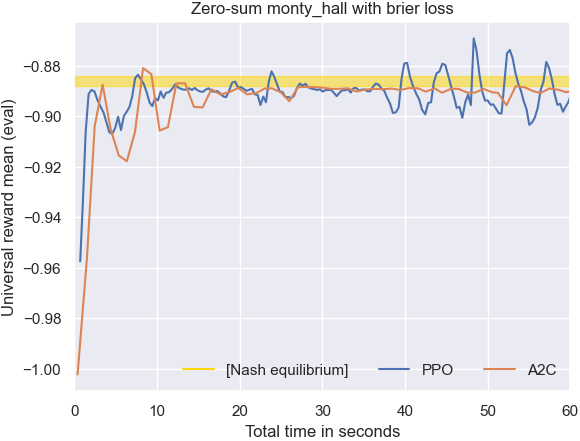
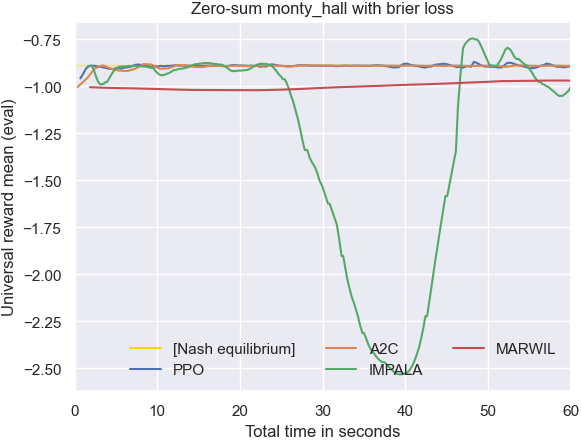
add more visualised comparisons

diff --git a/src/visualisation/show_all.py b/src/visualisation/show_all.py
@@ -10,33 +10,33 @@ import seaborn as sns
 import src.probability_updating as pu
 import src.probability_updating.games as games
 
-algos = ['ppo', 'a2c', 'ddpg', 'td3', 'sac', 'impala', 'marwil']
+algos = ['ppo']  # 'a2c', 'ddpg', 'td3', 'sac'
 
 
-def plot(new: bool, eval: bool, game_type: Type[games.Game], loss: str, interaction_type: str, optimum: float, bottom: Optional[float] = None):
+def plot(new: bool, old: bool, no_eval: bool, eval: bool, game_type: Type[games.Game], loss: str, interaction_type: str, optimum: float, bottom: Optional[float] = None):
     plt.figure()
 
     # Load datasets
-    data = {}
+    data = {'old': {}, 'new': {}}
     for algo in algos:
         try:
             if new:
-                data[algo] = pd.read_csv(f'data_new/{game_type.name()}/{loss}/{interaction_type}/{algo}.csv')
-            else:
-                data[algo] = pd.read_csv(f'data/{loss}/{game_type.name()}/{interaction_type}/{algo}.csv')
+                data['new'][algo] = pd.read_csv(f'data_new/{game_type.name()}/{loss}/{interaction_type}/{algo}.csv')
+            if old:
+                data['old'][algo] = pd.read_csv(f'data/{loss}/{game_type.name()}/{interaction_type}/{algo}.csv')
         except FileNotFoundError as e:
             pass
 
     # Plot datasets
     lines = []
-    for algo in data:
-        if new and eval:
-            lines.append(plt.plot(data[algo]['time_total_s'], data[algo]['universal_reward_eval_mean'], label=algo.upper())[0])
-        elif new:
-            lines.append(plt.plot(data[algo]['time_total_s'], data[algo]['universal_reward_mean'], label=algo.upper())[0])
-        else:
-            lines.append(plt.plot(data[algo]['time_total_s'], data[algo]['surrogate_reward_mean'], label=algo.upper())[0])
-
+    for algo in data['old']:
+        lines.append(plt.plot(data['old'][algo]['time_total_s'], data['old'][algo]['surrogate_reward_mean'], label=('old '+algo.upper()))[0])
+    for algo in data['new']:
+        if eval:
+            lines.append(plt.plot(data['new'][algo]['time_total_s'], data['new'][algo]['universal_reward_eval_mean'], label=('new '+algo.upper()+' (eval)'))[0])
+        if no_eval:
+            lines.append(plt.plot(data['new'][algo]['time_total_s'], data['new'][algo]['universal_reward_mean'], label=('new '+algo.upper()))[0])
+            
     # Plot miscellaneous
     plt.axhspan(optimum, optimum + 0.004, alpha=0.5, zorder=1, color='gold')
     lines.insert(0, Line2D([0], [0], label='[Nash equilibrium]', color='gold'))
@@ -50,14 +50,16 @@ def plot(new: bool, eval: bool, game_type: Type[games.Game], loss: str, interact
         plt.ylim(bottom=bottom)
     plt.title(f"{interaction_type.capitalize()} {game_type.name()} with {loss} loss")
     plt.xlabel("Total time in seconds")
-    if new and eval:
+    if eval and not no_eval:
         plt.ylabel("Universal reward mean (eval)")
-    elif new:
-        plt.ylabel("Universal reward mean")
     else:
-        plt.ylabel("Surrogate reward mean")
+        plt.ylabel("Universal reward mean")
 
-    if new and eval:
+    if new and old:
+        plt.savefig(f'figures_new_vs_old/{game_type.name()}_{loss}_{interaction_type}.png', transparent=False, bbox_inches='tight', pad_inches=0.02)
+    elif new and no_eval and eval:
+        plt.savefig(f'figures_no_eval_vs_eval/{game_type.name()}_{loss}_{interaction_type}.png', transparent=False, bbox_inches='tight', pad_inches=0.02)
+    elif new and eval:
         plt.savefig(f'figures_new_eval/{game_type.name()}_{loss}_{interaction_type}.png', transparent=False, bbox_inches='tight', pad_inches=0.02)
     elif new:
         plt.savefig(f'figures_new/{game_type.name()}_{loss}_{interaction_type}.png', transparent=False, bbox_inches='tight', pad_inches=0.02)
@@ -65,32 +67,32 @@ def plot(new: bool, eval: bool, game_type: Type[games.Game], loss: str, interact
         plt.savefig(f'figures/{game_type.name()}_{loss}_{interaction_type}.png', transparent=False, bbox_inches='tight', pad_inches=0.02)
 
 
-def show_all(new: bool = True, eval: bool = False):
+def show_all(new: bool = True, old: bool = False, no_eval: bool = False, eval: bool = True):
     # Set style
     sns.set()
     
     # Plot figures
-    plot(new, eval, game_type=pu.games.MontyHall, loss=pu.RANDOMISED_ZERO_ONE, interaction_type='zero-sum', optimum=-0.66667)
-    plot(new, eval, game_type=pu.games.MontyHall, loss=pu.RANDOMISED_ZERO_ONE, interaction_type='cooperative', optimum=-0.66667)
+    plot(new, old, no_eval, eval, game_type=pu.games.MontyHall, loss=pu.RANDOMISED_ZERO_ONE, interaction_type='zero-sum', optimum=-0.66667)
+    plot(new, old, no_eval, eval, game_type=pu.games.MontyHall, loss=pu.RANDOMISED_ZERO_ONE, interaction_type='cooperative', optimum=-0.66667)
 
-    plot(new, eval, game_type=pu.games.MontyHall, loss=pu.BRIER, interaction_type='zero-sum', optimum=-0.888)
-    plot(new, eval, game_type=pu.games.MontyHall, loss=pu.BRIER, interaction_type='cooperative', optimum=-0.666)
+    plot(new, old, no_eval, eval, game_type=pu.games.MontyHall, loss=pu.BRIER, interaction_type='zero-sum', optimum=-0.888)
+    plot(new, old, no_eval, eval, game_type=pu.games.MontyHall, loss=pu.BRIER, interaction_type='cooperative', optimum=-0.666)
 
-    plot(new, eval, game_type=pu.games.MontyHall, loss=pu.LOGARITHMIC, interaction_type='zero-sum', optimum=-1.273, bottom=-2.5)
-    plot(new, eval, game_type=pu.games.MontyHall, loss=pu.LOGARITHMIC, interaction_type='cooperative', optimum=-0.924, bottom=-2.5)
+    plot(new, old, no_eval, eval, game_type=pu.games.MontyHall, loss=pu.LOGARITHMIC, interaction_type='zero-sum', optimum=-1.273, bottom=-2.5)
+    plot(new, old, no_eval, eval, game_type=pu.games.MontyHall, loss=pu.LOGARITHMIC, interaction_type='cooperative', optimum=-0.924, bottom=-2.5)
 
-    # plot(new, eval, game_type=pu.games.FairDie, loss=pu.RANDOMISED_ZERO_ONE, interaction_type='zero-sum', optimum=-1.333)
-    # plot(new, eval, game_type=pu.games.FairDie, loss=pu.RANDOMISED_ZERO_ONE, interaction_type='cooperative', optimum=-1.333)
-    #
-    # plot(new, eval, game_type=pu.games.FairDie, loss=pu.BRIER, interaction_type='zero-sum', optimum=-1.444)
-    # plot(new, eval, game_type=pu.games.FairDie, loss=pu.BRIER, interaction_type='cooperative', optimum=-1.333)
-    #
-    # plot(new, eval, game_type=pu.games.FairDie, loss=pu.LOGARITHMIC, interaction_type='zero-sum', optimum=-2.659)
-    # plot(new, eval, game_type=pu.games.FairDie, loss=pu.LOGARITHMIC, interaction_type='cooperative', optimum=-2.197)
+    plot(new, old, no_eval, eval, game_type=pu.games.FairDie, loss=pu.RANDOMISED_ZERO_ONE, interaction_type='zero-sum', optimum=-1.333)
+    plot(new, old, no_eval, eval, game_type=pu.games.FairDie, loss=pu.RANDOMISED_ZERO_ONE, interaction_type='cooperative', optimum=-1.333)
+
+    plot(new, old, no_eval, eval, game_type=pu.games.FairDie, loss=pu.BRIER, interaction_type='zero-sum', optimum=-1.444)
+    plot(new, old, no_eval, eval, game_type=pu.games.FairDie, loss=pu.BRIER, interaction_type='cooperative', optimum=-1.333)
+
+    plot(new, old, no_eval, eval, game_type=pu.games.FairDie, loss=pu.LOGARITHMIC, interaction_type='zero-sum', optimum=-2.659)
+    plot(new, old, no_eval, eval, game_type=pu.games.FairDie, loss=pu.LOGARITHMIC, interaction_type='cooperative', optimum=-2.197)
 
     # Present plot(s)
     plt.show()
 
 
 if __name__ == '__main__':
-    show_all(new=True, eval=True)
+    show_all(new=True, old=True, no_eval=True, eval=False)
